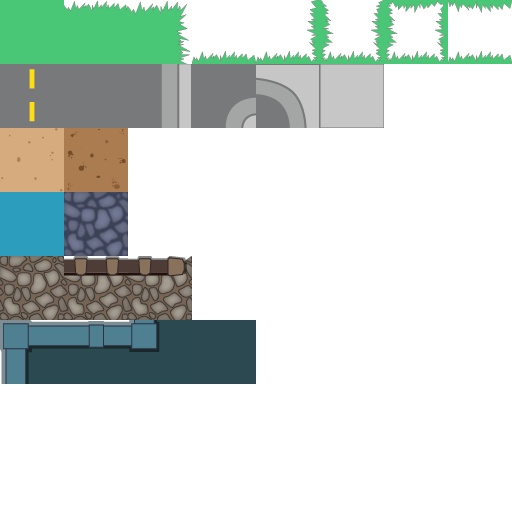
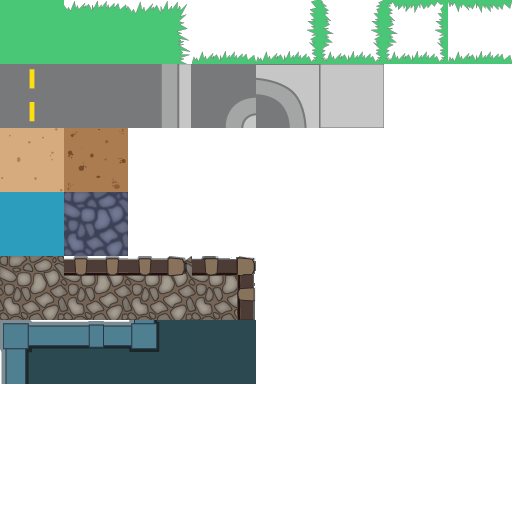
added WASD controls and cleaned up some map tiles

Changed region(s): [[0.375, 0.5, 0.5, 0.625]]

diff --git a/js/main.js b/js/main.js
@@ -131,6 +131,7 @@ Preloader.prototype = {
       game.load.tilemap('maptile4', 'Level4Map.json', null, Phaser.Tilemap.TILED_JSON);
 
 		  game.load.image('mapImage','MapTiles.png'); //tilemap images
+      game.load.image('WASDImage','WASD.png'); //tilemap images
       game.load.image('mapMAINImage',"TileMAIN.png"); //tilemap images
 		  game.load.image('rifleSprite', 'weapon_rifle.png');
 		  game.load.image('shotgunSprite', 'weapon_shotgun.png');
@@ -381,7 +382,7 @@ Play.prototype = {
 
         barriers = game.add.group();
 
-        player = new Player(game, 200, 200, 'atlas', 'player0001', 15);
+        player = new Player(game, 352, 352, 'atlas', 'player0001', 15);
 
        //room 2 spawners
        roomTwoFast = new EnemySpawner(['FastCharger'], [new SpawnPoint(29,6)], player);

diff --git a/js/levelSelect.js b/js/levelSelect.js
@@ -4,6 +4,7 @@ function levelSelect(level){
 		map = game.add.tilemap('maptile');
         map.addTilesetImage('Map','mapImage');
         map.addTilesetImage('MAIN','mapMAINImage');
+        map.addTilesetImage('WASD','WASDImage');
         layerMain = map.createLayer('1-Base'); //main world layer
         layerDetail = map.createLayer('1-Detail'); //main world layer
         map.addTilesetImage('Collision','collisionImage');
